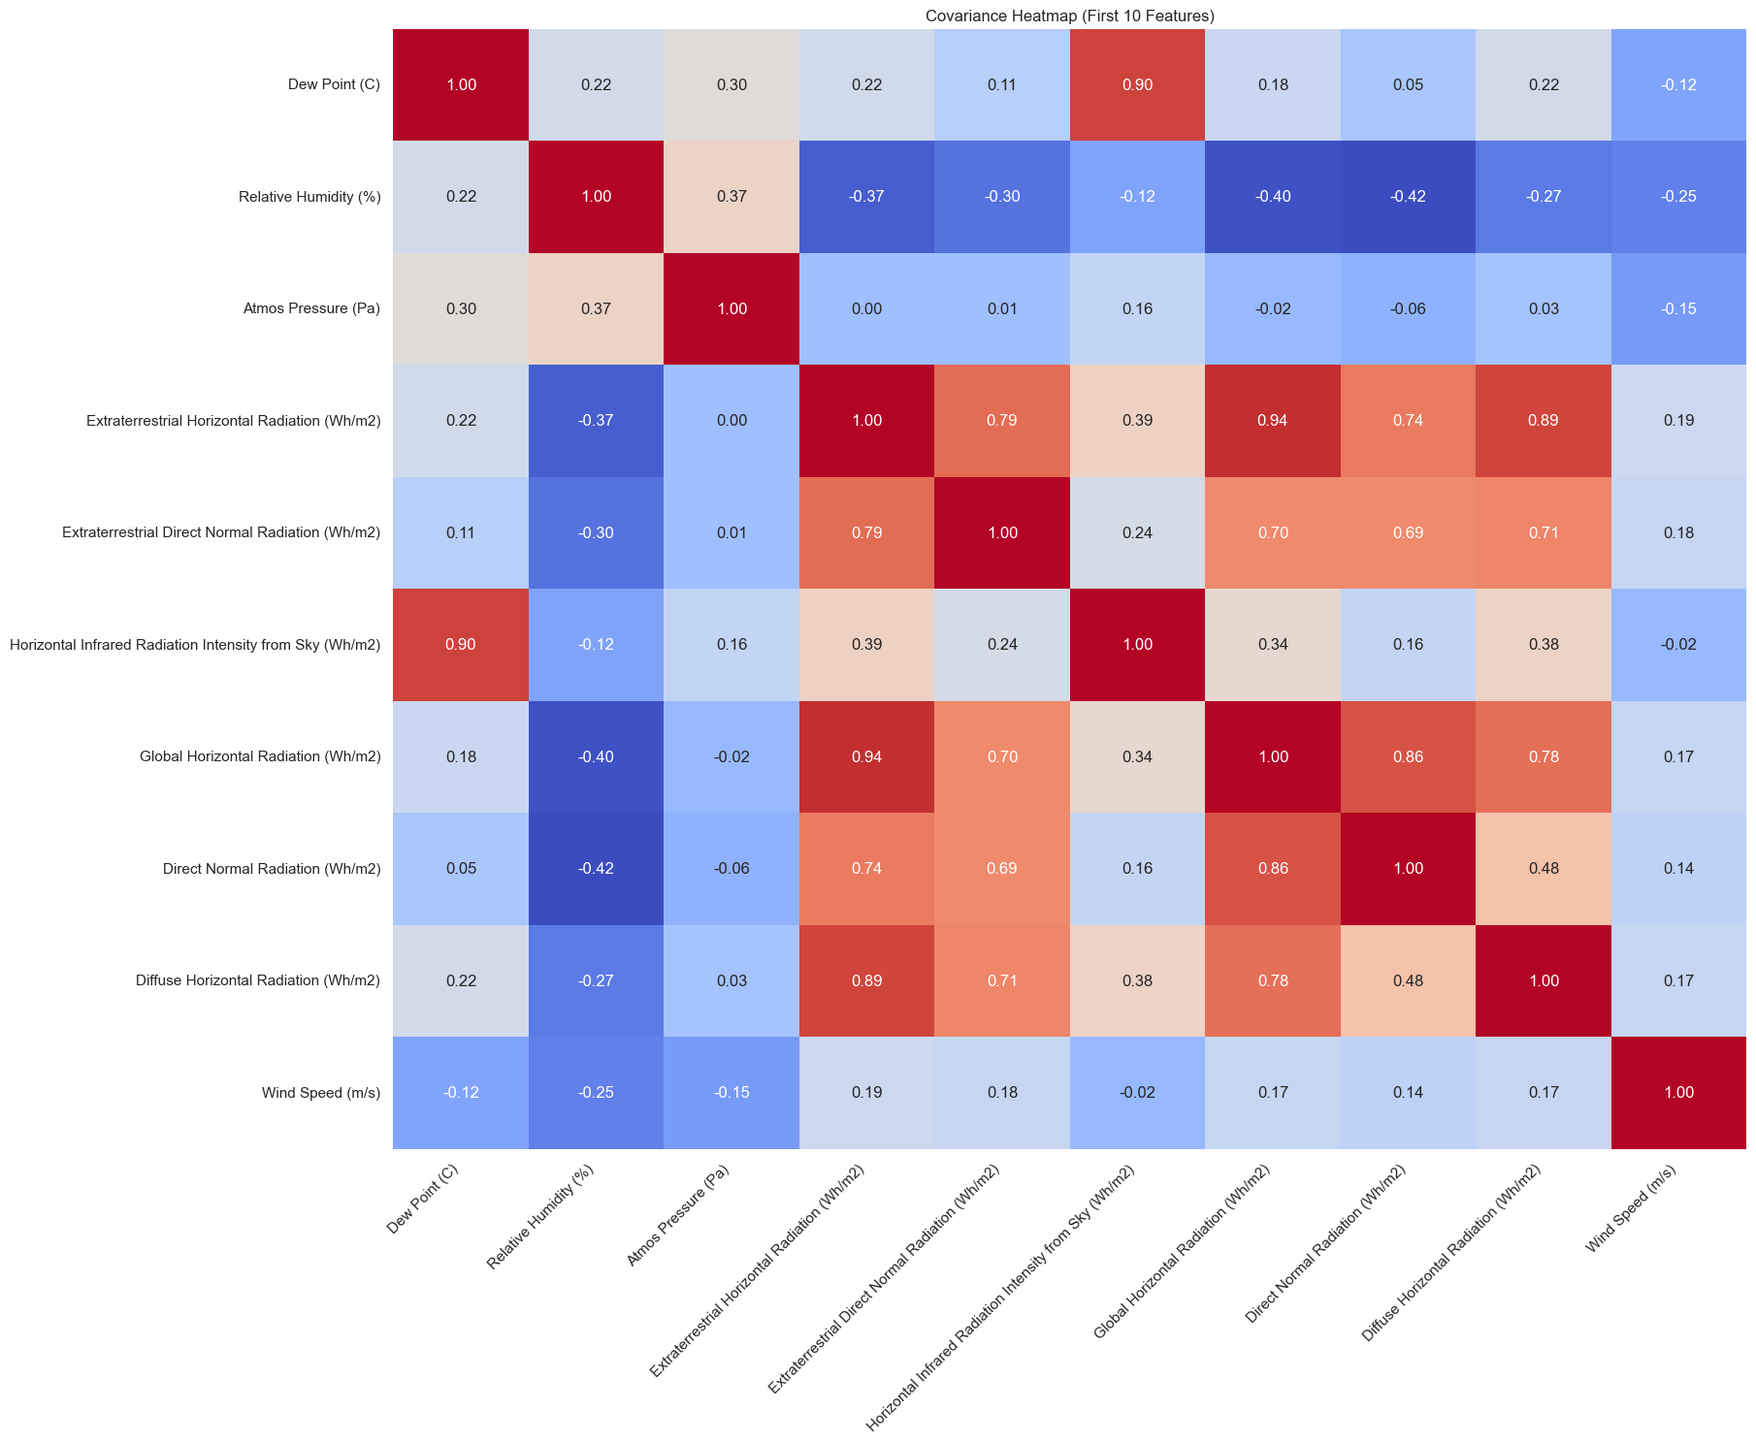
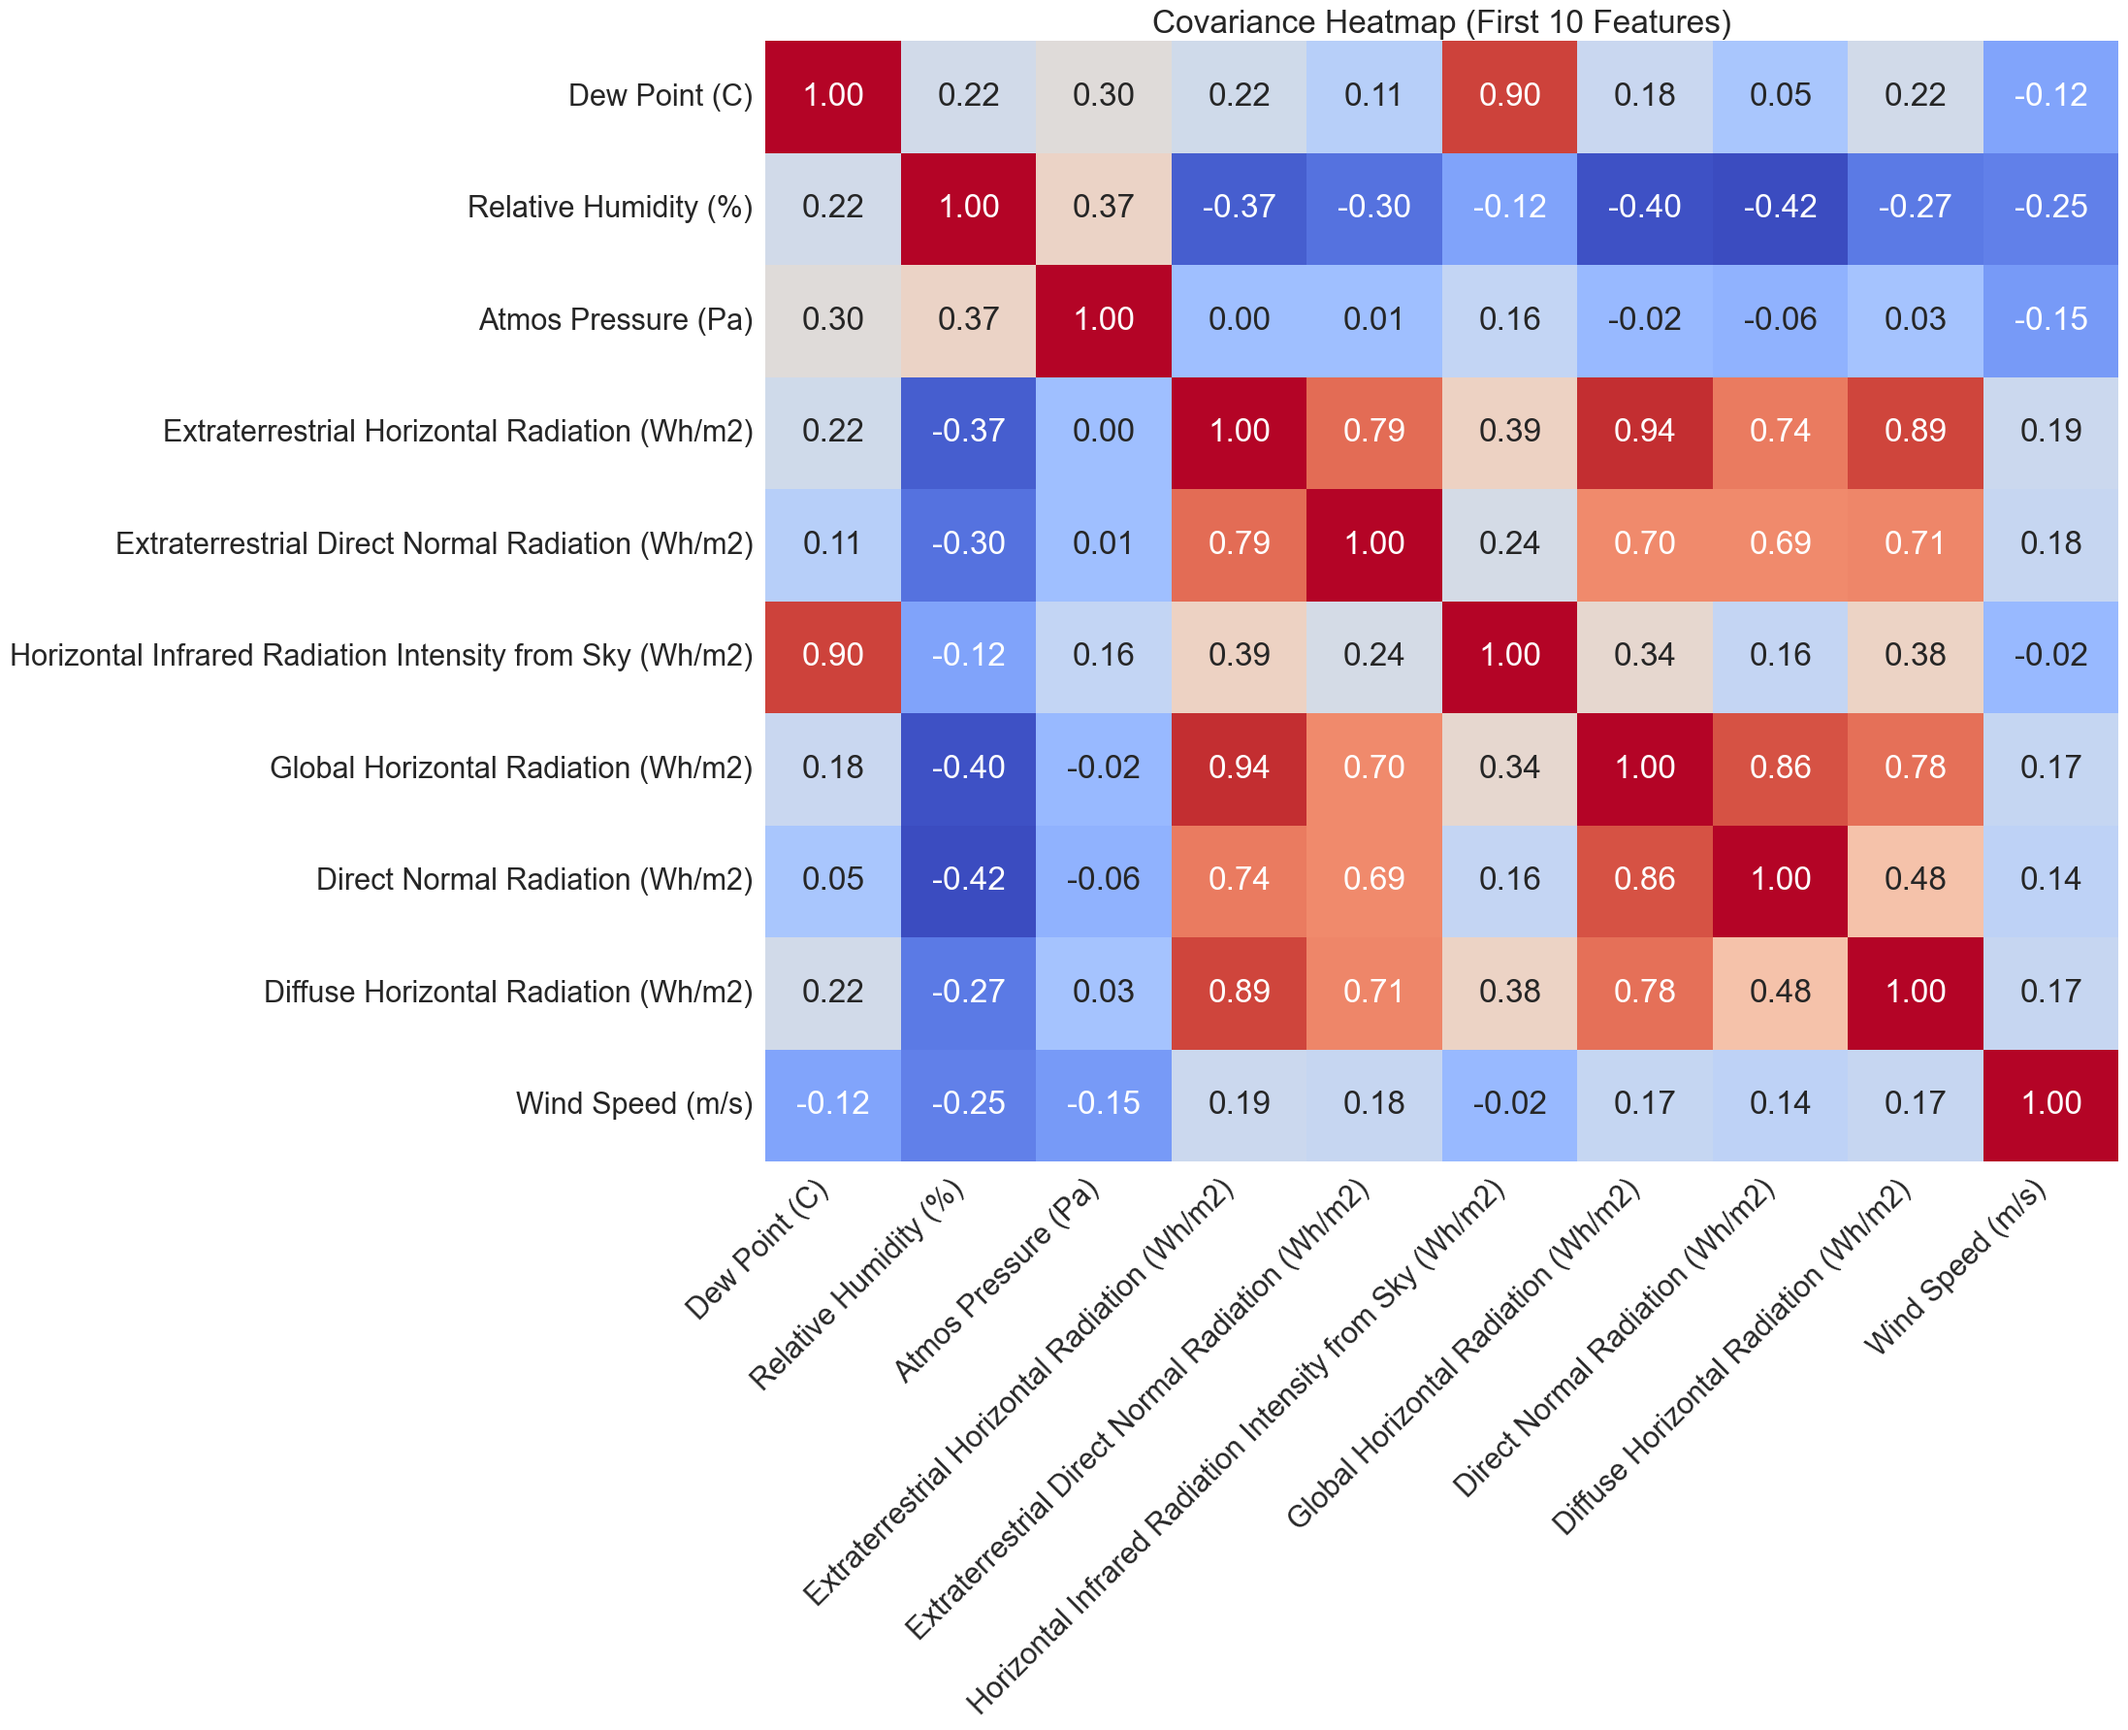
Update code files

diff --git a/Project/code/heatmap.py b/Project/code/heatmap.py
@@ -13,16 +13,14 @@ data = pd.read_csv(PATH_DATA)
 data = data.iloc[:, 5:15]
 print(data.head())
 
-# Step 3: Compute the covariance matrix
-cov_matrix = data.corr()  # Set rowvar=False to treat columns as variables
+cov_matrix = data.corr()  
 
-# # Step 4: Create a heatmap using seaborn
-plt.figure(figsize=(18, 15))  # Adjust the figure size
-sns.set(font_scale=1)
+plt.figure(figsize=(18, 15))  
+sns.set(font_scale=2)
 heatmap = sns.heatmap(cov_matrix, annot=True, fmt=".2f", cmap="coolwarm", xticklabels=data.columns, yticklabels=data.columns, cbar=False)
 heatmap.set_xticklabels(heatmap.get_xticklabels(), rotation=45, horizontalalignment='right')
 plt.title("Covariance Heatmap (First 10 Features)")
-plt.savefig('covariance_heatmap.png', bbox_inches='tight')  # 'bbox_inches' prevents clipping of labels
+plt.savefig('covariance_heatmap.png', bbox_inches='tight')
 plt.show()
 
 
